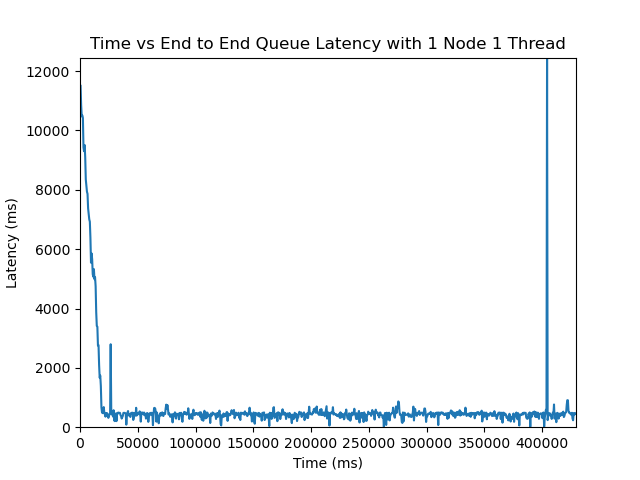
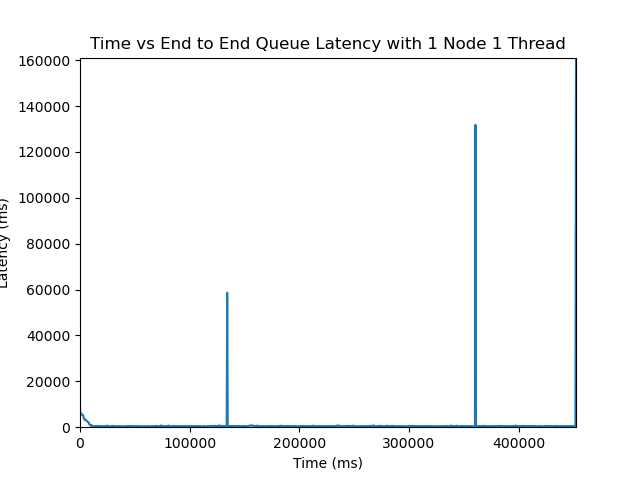
Fix E2E Standard

Changed region(s): [[0.0, 0.125, 0.9062, 0.9375], [0.0312, 0.75, 0.125, 0.8125], [0.0312, 0.0938, 0.125, 0.1562]]

diff --git a/DataParser.py b/DataParser.py
@@ -129,7 +129,7 @@ if True:
     # plotWeights("zephyr", "n3t4")
 
     print("Plot end-to-end latency:")
-    # plotE2ELatency("standard", "n1t1")
+    plotE2ELatency("standard", "n1t1")
     # plotE2ELatency("standard", "n3t4")
-    plotE2ELatency("zephyr", "n1t1")
+    # plotE2ELatency("zephyr", "n1t1")
     # plotE2ELatency("zephyr", "n3t4")
